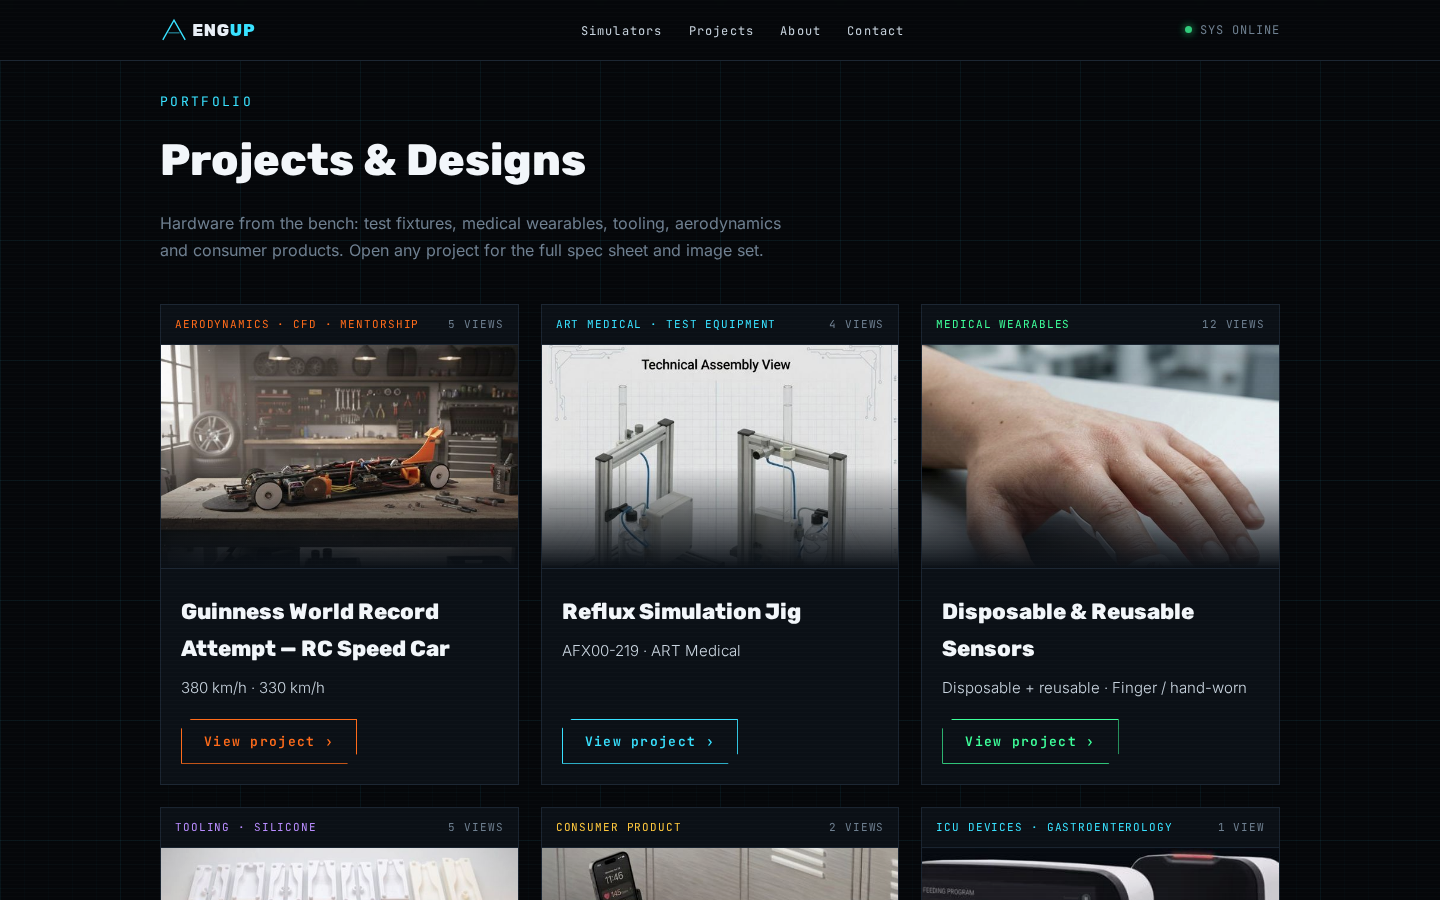
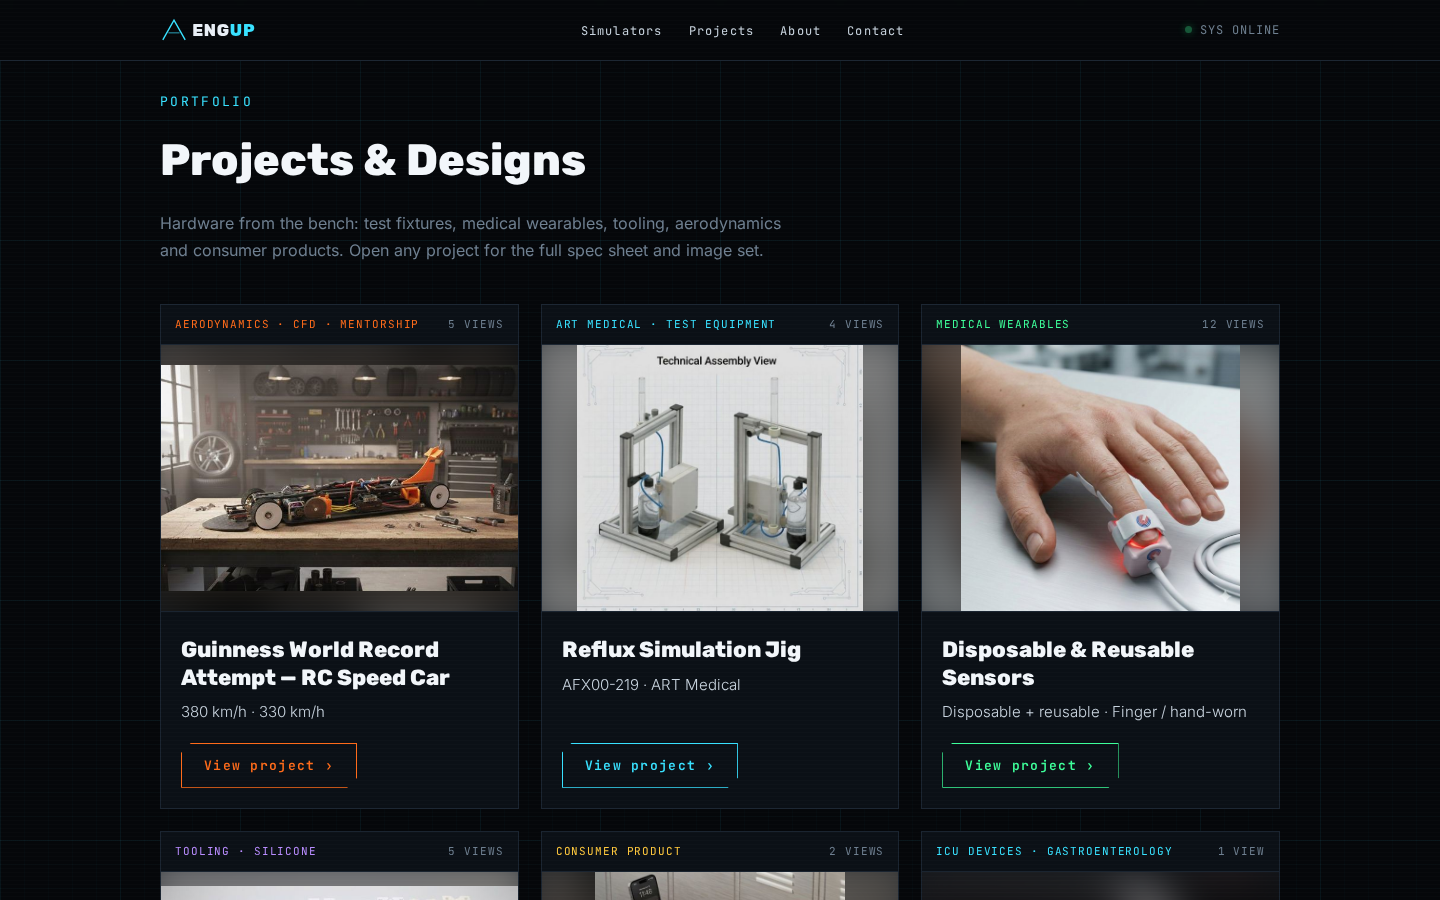
Project cards: show full cover image (contain on blurred backdrop), equal height

Changed region(s): [[0.0938, 0.3733, 0.9062, 1.0]]

diff --git a/index.html b/index.html
@@ -84,6 +84,9 @@ footer{border-top:1px solid var(--ln);padding:26px 0}footer .w{display:flex;just
 .rm{margin-top:14px;font-size:15px;font-weight:300}.rm summary{cursor:pointer;color:var(--ac);font:600 12px var(--m);letter-spacing:.12em;text-transform:uppercase;list-style:none}.rm h4{color:var(--hi);margin:14px 0 2px;font-family:'Space Grotesk',Rubik,sans-serif;font-size:16px}.rm p{margin:0}
 .sh{display:block!important}.sh .m{display:block;margin-bottom:10px;letter-spacing:.18em}
 .card h3{line-height:1.25}
+.dim{aspect-ratio:4/3;background:#0d141b;isolation:isolate}.dim:before{content:"";position:absolute;inset:-20px;background:var(--bg) center/cover;filter:blur(22px) brightness(.55) saturate(.8);z-index:-1}
+.dim:after{display:none!important}.card .dim img{width:100%;height:100%;aspect-ratio:auto;object-fit:contain;object-position:center;filter:none}.card:hover .dim img{transform:scale(1.04)}
+#dgs .card{height:100%}#dgs .cb p{min-height:1.7em}
 </style></head><body>
 <nav><div class="w"><a href="#"><img src="logo.svg" alt="EngUp"></a><ul id="nm"><li><a href="#projects">Simulators</a></li><li><a href="#designs">Projects</a></li><li><a href="#about">About</a></li><li><a href="#contact">Contact</a></li></ul><span class="st m"><i class="dot"></i>SYS ONLINE</span><button class="mb" id="mb" aria-label="Menu" aria-expanded="false" aria-controls="nm">☰</button></div></nav>
 <main>
@@ -129,7 +132,7 @@ footer{border-top:1px solid var(--ln);padding:26px 0}footer .w{display:flex;just
 <script>
 const g=document.getElementById('grid');g.innerHTML=PROJECTS.map((p,i)=>`<article class="card" style="--c:${p.color||'#38E1FF'}"><div class="ch"><span class="m">Simulator</span><span class="m">${p.tag||''}</span></div><a class="im" href="${p.url}" target="_blank" rel="noopener"><img src="${p.img}" alt="${p.title}" loading="lazy"></a><div class="cb"><h3>${p.title}</h3><p>${p.desc}</p><a class="btn" href="${p.url}" target="_blank" rel="noopener">Launch simulator ›</a></div></article>`).join('')+`<div class="add m">Next module · in development</div>`;
 const esc=t=>String(t).replace(/[&<>"]/g,c=>({'&':'&amp;','<':'&lt;','>':'&gt;','"':'&quot;'}[c]));
-document.getElementById('dgs').className='grid';document.getElementById('dgs').innerHTML=DESIGNS.map(d=>`<article class="card" style="--c:${d.color}"><div class="ch"><span class="m">${esc(d.tag)}</span><span class="m">${d.imgs.length} ${d.imgs.length>1?'views':'view'}</span></div><a class="im" href="project.html?id=${d.id}"><img src="img/designs/thumb/${d.imgs[0][0]}.jpg" alt="${esc(d.title)}" loading="lazy"></a><div class="cb"><h3>${esc(d.title)}</h3><p>${esc(d.spec.slice(0,2).map(x=>x[1]).join(' · '))}</p><a class="btn" href="project.html?id=${d.id}">View project ›</a></div></article>`).join('');const FLAT=[];
+document.getElementById('dgs').className='grid';document.getElementById('dgs').innerHTML=DESIGNS.map(d=>`<article class="card" style="--c:${d.color}"><div class="ch"><span class="m">${esc(d.tag)}</span><span class="m">${d.imgs.length} ${d.imgs.length>1?'views':'view'}</span></div><a class="im dim" href="project.html?id=${d.id}" style="--bg:url(img/designs/thumb/${d.imgs[0][0]}.jpg)"><img src="img/designs/thumb/${d.imgs[0][0]}.jpg" alt="${esc(d.title)}" loading="lazy"></a><div class="cb"><h3>${esc(d.title)}</h3><p>${esc(d.spec.slice(0,2).map(x=>x[1]).join(' · '))}</p><a class="btn" href="project.html?id=${d.id}">View project ›</a></div></article>`).join('');const FLAT=[];
 const lb=document.createElement('div');lb.className='lb';lb.setAttribute('role','dialog');lb.innerHTML='<button class="x" aria-label="Close">✕</button><button class="pv" aria-label="Previous">‹</button><img alt=""><p class="m"></p><button class="nx" aria-label="Next">›</button>';document.body.appendChild(lb);
 let cur=0;const show=i=>{cur=(i+FLAT.length)%FLAT.length;const x=FLAT[cur];lb.querySelector('img').src=`img/designs/${x.f}.jpg`;lb.querySelector('img').alt=x.t;lb.querySelector('p').textContent=x.t+' · '+x.c;lb.classList.add('on');document.body.style.overflow='hidden'};
 const hide=()=>{lb.classList.remove('on');document.body.style.overflow=''};
